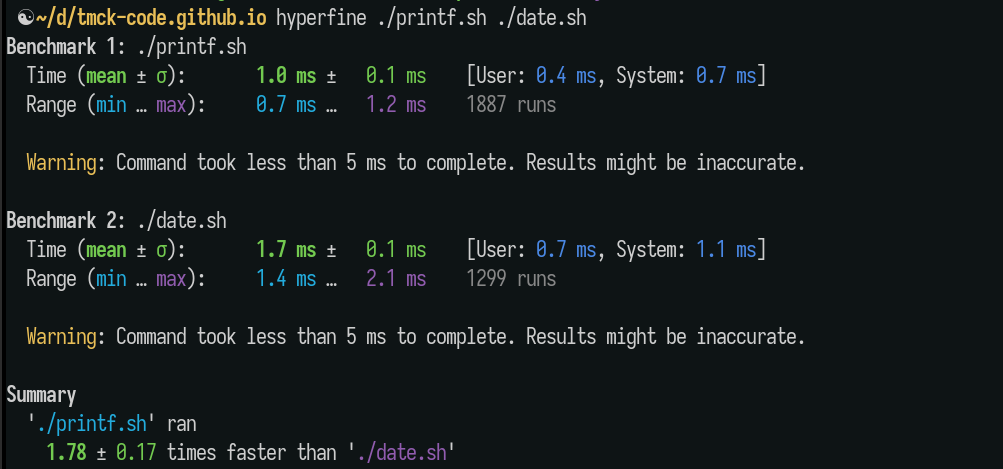
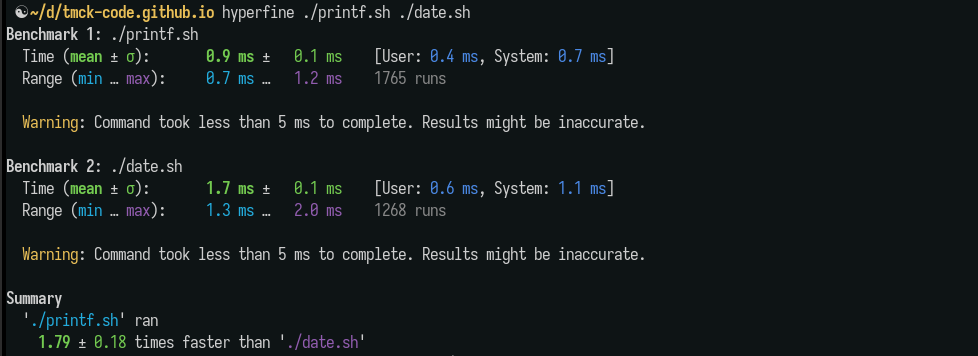
update benchmark image after rerunning a bunch

diff --git a/articles/20250519_get_unix_time_fast_with_pure_bash/20250519_get_unix_time_fast_with_pure_bash.md b/articles/20250519_get_unix_time_fast_with_pure_bash/20250519_get_unix_time_fast_with_pure_bash.md
@@ -24,7 +24,7 @@ date +%s
 
  ☯ cat printf.sh
 #!/bin/bash
-printf '%(%s)T\n'
+printf '%(%s)T\n' -1
 
 ```
 ## Results
